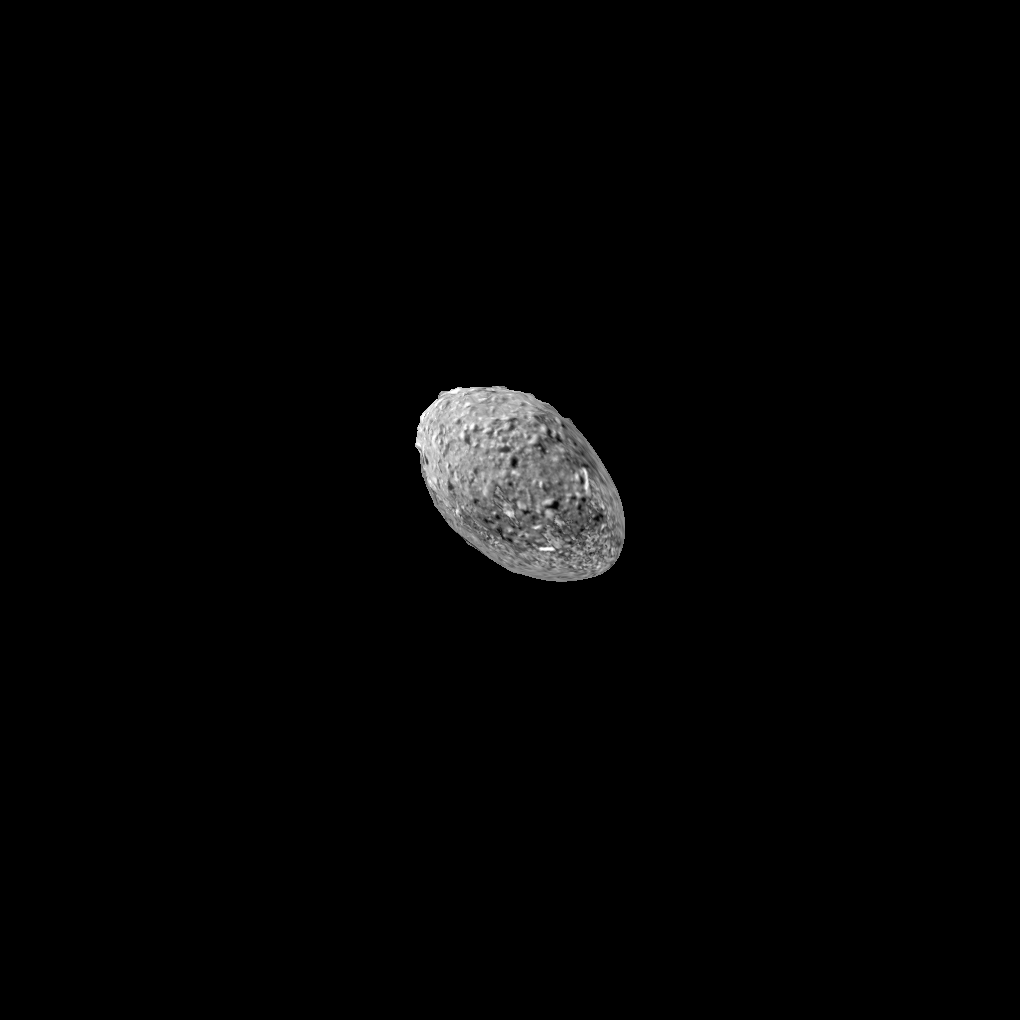
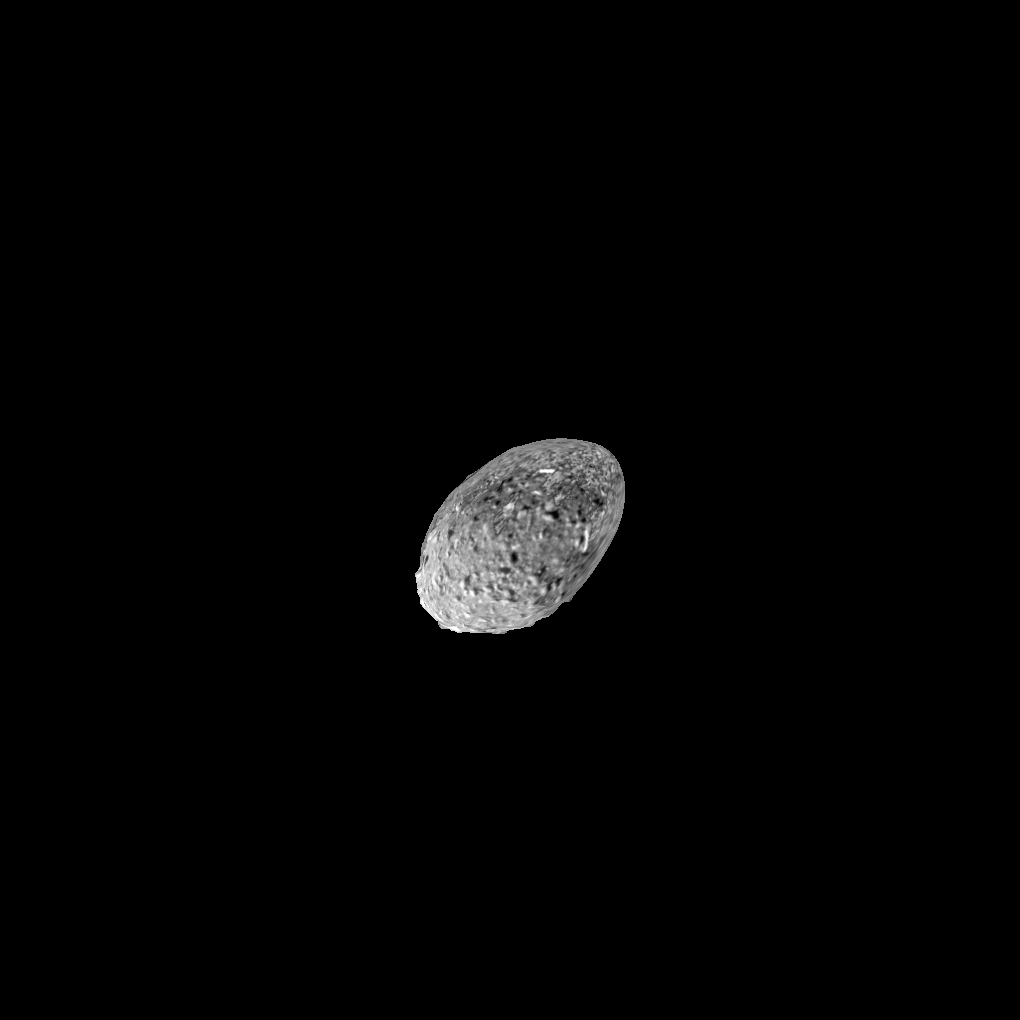
AFC test frames in the instrument's row order; sidecars name the concrete metakernel (PRo3D#929)
PRo3D now takes AFC image axes and the row flip from the instrument kernel's
pixel layout (pixel (0,0) is the lower left corner), so AFC frames project with
flipped rows by default and simulate-image writes them line 0 first.

Regenerated with scripts/make-projection-test-data.py and
scripts/make-sample-layers-test-data.py --only AFC from the public shape model
HERA/Dimorphos_opc/Dimorphos_DRACO_V4/Dimorphos_DRACO and the public ESA plan
metakernel:
- HERA/Dimorphos_opc/AFC_2027-03-21: 8 frames, sidecars, ProjectionTest.pro3d
- HERA/Dimorphos_opc/SampleLayers_2027-03-21/AFC: 4 frames and sidecars
Each frame equals the previous one flipped vertically (same camera); sidecars
now carry SPICE_MK = the versioned metakernel instead of the hera_plan alias.
READMEs explain the row order.

Changed region(s): [[0.3951, 0.3647, 0.6382, 0.6382]]

diff --git a/HERA/Dimorphos_opc/AFC_2027-03-21/README.md b/HERA/Dimorphos_opc/AFC_2027-03-21/README.md
@@ -6,8 +6,10 @@ scene, for checking that image projection lands correctly in the PRo3D viewer.
 Rendered against **`../Dimorphos_DRACO_V4/Dimorphos_DRACO`** (shape model v004,
 `dimorphos_g_0243mm_spc_dtm_0000n00000_v004`), the OPC next to this folder, at AFC-1's
 5.5° field of view and with a current plan metakernel
-(regenerated for PRo3D#882; before, v003 at 5.5307°). The frames are
-only meaningful on the shape model they came from.
+(regenerated for PRo3D#882; before, v003 at 5.5307°; regenerated again for PRo3D#929,
+see *Row order* below). The frames are only meaningful on the shape model they came
+from. Each sidecar's `SPICE_MK` names the concrete, versioned metakernel the frame was
+rendered with, and the scene loads that same file.
 
 **These are self-referential on purpose.** Each frame was rendered *from* the
 shape model, and its sidecar describes *the camera that render actually used*. So
@@ -24,6 +26,12 @@ projection, not in the data.
 | `AFC1_DRACO2_<date>_<time>.png` | the **DRACO_2** mosaic as the camera sees it, no lighting. The frames to use for judging registration: they carry real surface detail. |
 | `AFC1_SIM_<date>_<time>.png` | lit render — Lommel-Seeliger shading, micro-structure, cast shadows, constant albedo. Fixed gain 4.492 across the four. |
 | `*.mbi.json` | `SC_QUAT0..3` (spacecraft→J2000, w,x,y,z) and `TRG_POSX/Y/Z` (target minus spacecraft, km, J2000). |
+
+**Row order.** The PNGs are stored in the instrument's own row order: AFC-1's
+instrument kernel puts pixel (0,0) in the lower left corner, so the first row is the
+**bottom** of the frame and the files look upside down in an image viewer. PRo3D
+projects AFC images with flipped rows by default (*Instrument Settings › flip*), so they
+land correctly; the frames before PRo3D#929 were stored top-down and are these, flipped.
 
 **Why DRACO_2 and not DRACO_1.** The two layers are different DART imaging
 passes covering different hemispheres, and at these epochs HERA is looking at the
@@ -47,7 +55,8 @@ camera on the 20:00 frame's axis at its own 6 706.8 m — the closest pass, and 
 the frame with the most surface detail.
 
 Then: GIS tab → **Projected Images** → *Import Directory* → this folder →
-untick **Transfer Function** (*Orientation Source* is already MBI) → click a frame's
+untick **Transfer Function**, set *Orientation Source* to **MBI (SC_QUAT + TRG_POS)** (it is
+not stored in a scene; the default is *SPICE (instrument frame)*) → click a frame's
 location arrow to fly to it → **+** to project.
 
 ### Starting from an empty PRo3D instead

diff --git a/HERA/Dimorphos_opc/SampleLayers_2027-03-21/README.md b/HERA/Dimorphos_opc/SampleLayers_2027-03-21/README.md
@@ -21,7 +21,7 @@ The frames are only meaningful on the shape model they came from.
 
 | Folder | Instrument | Spacecraft | Per epoch |
 |---|---|---|---|
-| `AFC/` | AFC-1 | Hera | `AFC1_SIM_<epoch>.png` — 1020x1020, 8-bit, lit render (Lommel-Seeliger, micro-structure, cast shadows), gain 4.5 |
+| `AFC/` | AFC-1 | Hera | `AFC1_SIM_<epoch>.png` — 1020x1020, 8-bit, lit render (Lommel-Seeliger, micro-structure, cast shadows), gain 4.5; rows in the instrument's order (first row = bottom of the frame, per AFC's instrument kernel; regenerated for PRo3D#929), sidecars name the concrete metakernel |
 | `ASPECT/` | ASPECT 2B | Milani | `ASP_SIM_<epoch>_<band>.tif` — 37 single-band float TIFFs, 640x512, `Vis_0`…`NIR2_12` (675–1575 nm) |
 | `HSH/` | HyperScout 1B | Hera | `HSH_SIM_<epoch>_Stacked.tif` — one float TIFF of 25 planes, 409x217 (661–952 nm) |
 
